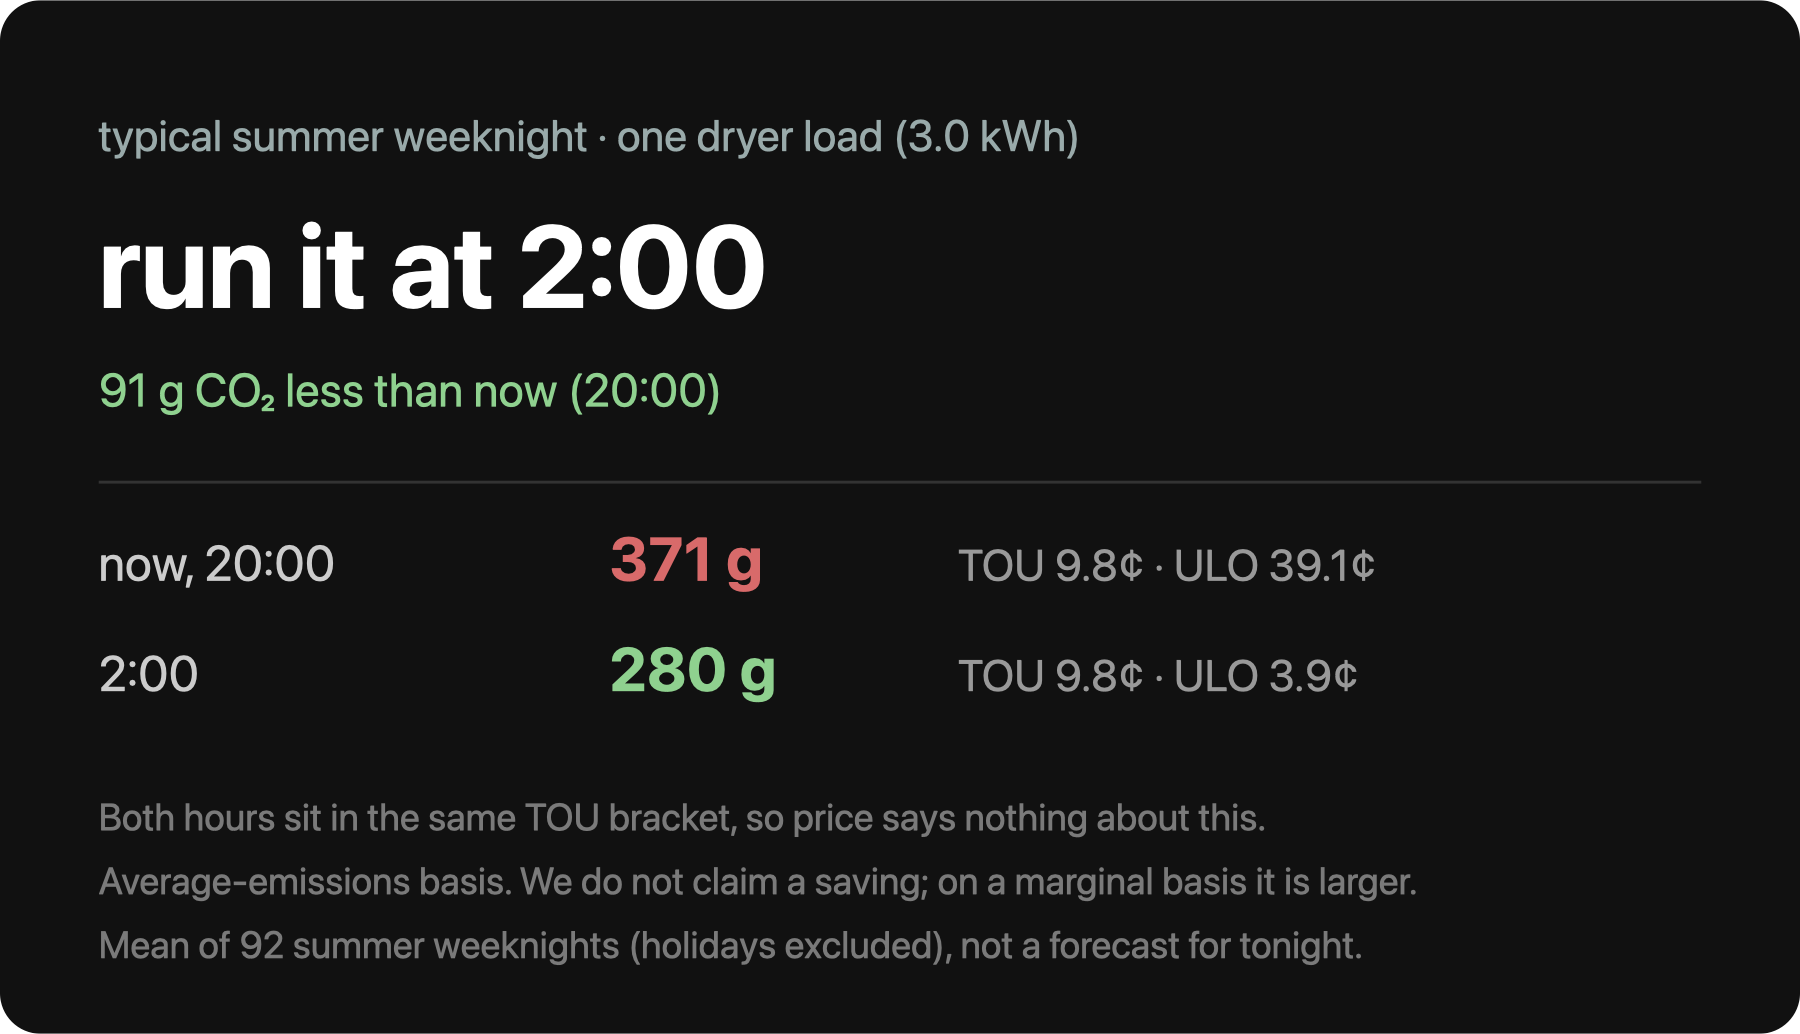
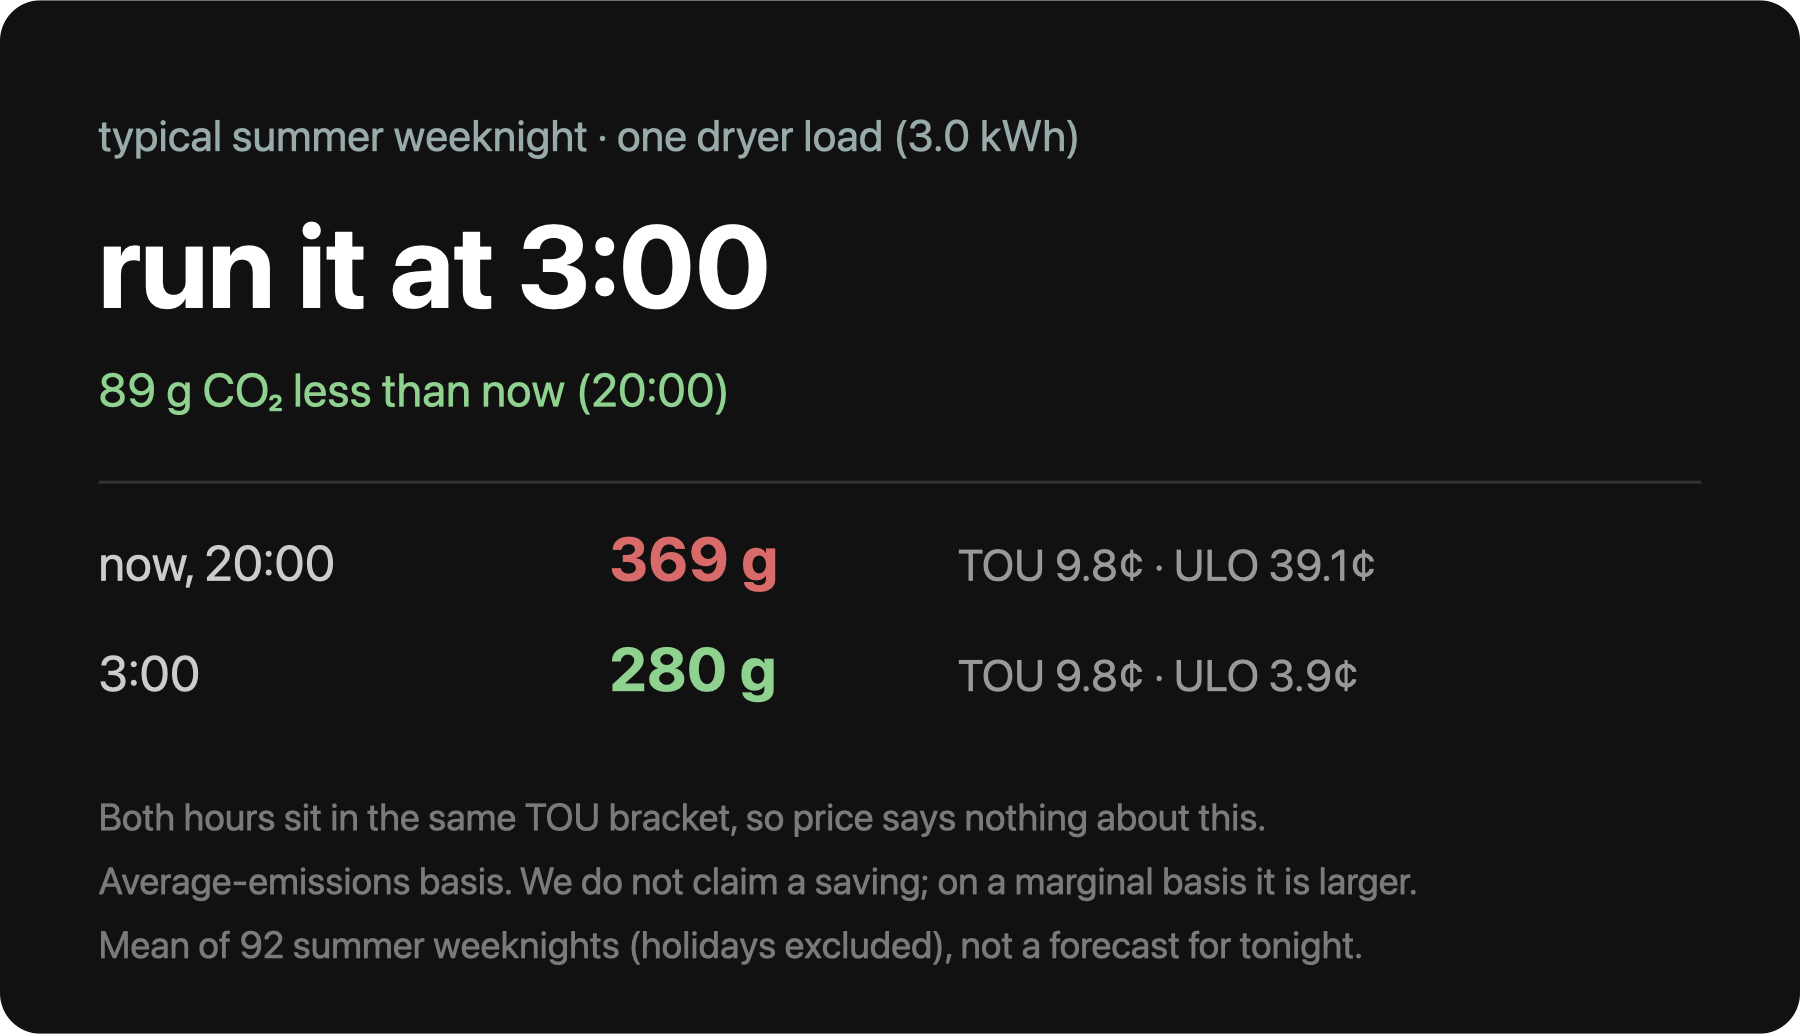
Bind the submission PNGs to their source SVGs
The video and the Devpost gallery use PNGs, not the SVGs. The SVGs are
redrawn on every run and checked; the PNGs come from tools/svg2png.py,
which a human runs by hand. Nobody ran it after the clock correction, so a
three-day-old chart.png shipped inside the video: the picture said 20:00
and 2:00 while the table and the narration said 21:00 and 3:00. All 32
checks were green.

svg2png.py now records the source SVG's hash in figures/.png-from.json and
a check compares it against the current SVG. Binding by mtime does not
work here — the check suite redraws the SVGs as it runs, which would make
the PNGs perpetually "stale".

Also corrected a claim the clock fix had falsified: "run it after 7 p.m."
does not point at the worst hour of the off-peak window. 19:00 is fourth
of twelve. The window opens at its dirtiest end, and the four dirtiest
hours are the first four. A check recomputes that ranking from the data.

33 checks, 46 planted defects.

Claude-Session: https://claude.ai/code/session_01YSf92kXmB57XPY65Y9KqnS

diff --git a/src/check_demo.py b/src/check_demo.py
@@ -52,6 +52,7 @@ NAMES = [
     "시계 변환 기지답 시험이 통과한다",
     "IESO 시각을 현지 시각으로 바꾸지 않고 쓰는 곳이 없다",
     "문서가 말하는 '가장 더러운 앞 N시간'이 실제 순위와 맞는다",
+    "영상·제출에 쓰는 PNG 가 SVG 보다 낡지 않았다",
 ]
 result = {n: (False, "실행되지 않음") for n in NAMES}
 assert len(NAMES) == len(set(NAMES)), "검사 이름이 중복된다"
@@ -605,6 +606,44 @@ if os.path.exists(DATA):
                 _rank_bad.append(
                     f"{_f}: 가장 더러운 {_n1}시각 {sorted(_by_gas[:_n1])} ≠ 앞 {_n1}시간 {_opens[:_n1]}")
     ok(NAME("문서가 말하는 '가장 더러운 앞 N시간'이 실제 순위와 맞는다"), not _rank_bad, "; ".join(_rank_bad[:2]))
+
+    # **영상이 쓰는 것은 SVG 가 아니라 PNG 다.** SVG 는 매 실행 다시 그려지고 검사도 받는데,
+    # PNG 는 `tools/svg2png.py` 를 사람이 손으로 돌려야 생긴다. 시계 정렬을 고친 뒤 아무도
+    # 안 돌려서, **사흘 묵은 chart.png 가 영상에 그대로 실렸다** — 그림은 20:00·2:00 을,
+    # 표와 낭독은 21:00·3:00 을 말하고 있었다. 검사 32개가 전부 초록인 채로.
+    #
+    # **시각이 아니라 내용으로 묶는다.** mtime 으로 쳤더니 이 검사 자신이 SVG 를 다시 그려서
+    # PNG 가 늘 '낡은 것'이 됐다. svg2png.py 가 출처 SVG 의 해시를 .png-from.json 에 적고,
+    # 여기서 지금 SVG 의 해시와 대조한다.
+    _stamp_p = os.path.join(FIG, ".png-from.json")
+    _png_bad = []
+    _stamp = {}
+    if not os.path.exists(_stamp_p):
+        _png_bad.append(".png-from.json 이 없다 — python3 tools/svg2png.py figures/*.svg 를 돌려라")
+    else:
+        try:
+            import json as _json
+            _stamp = _json.load(open(_stamp_p, encoding="utf-8"))
+        except Exception as _e:
+            _png_bad.append(f".png-from.json 을 못 읽었다: {_e}")
+    import hashlib as _hl
+    def _sha16(_p):
+        return _hl.sha256(open(_p, "rb").read()).hexdigest()[:16]
+    for _png, _src in (("card.png", "card.svg"), ("chart.png", "chart.svg"),
+                       ("thumbnail.png", "card.png")):
+        _pp, _sp = os.path.join(FIG, _png), os.path.join(FIG, _src)
+        if not os.path.exists(_pp):
+            _png_bad.append(f"{_png} 이 없다"); continue
+        if not os.path.exists(_sp):
+            _png_bad.append(f"{_src} 가 없다"); continue
+        _rec = _stamp.get(_png)
+        if not _rec:
+            _png_bad.append(f"{_png} 의 출처 기록이 없다"); continue
+        if _rec.get("from") != _src:
+            _png_bad.append(f"{_png} 의 출처가 {_rec.get('from')} 로 적혀 있다 (기대 {_src})"); continue
+        if _rec.get("sha") != _sha16(_sp):
+            _png_bad.append(f"{_png} 이 지금 {_src} 에서 나온 것이 아니다 — python3 tools/svg2png.py 를 돌려라")
+    ok(NAME("영상·제출에 쓰는 PNG 가 SVG 보다 낡지 않았다"), not _png_bad, "; ".join(_png_bad[:3]))
 
     gn = one(r"(\d+):00\s+\d+ nights\s+([\d.]+) %\s*<- what we recommend", out)
     rn = one(r"\*\*([\d.]+) % of nights\*\*", readme)

diff --git a/tools/svg2png.py b/tools/svg2png.py
@@ -14,7 +14,7 @@ Devpost 이미지 갤러리는 JPG·PNG·GIF 만 받는다 (SVG 불가, 최대 5
 
 사용:  python3 tools/svg2png.py figures/*.svg
 """
-import glob, io, os, re, subprocess, sys, tempfile
+import glob, hashlib, io, json, os, re, subprocess, sys, tempfile
 
 def convert(svg_path, out_dir, render=1800):
     svg = io.open(svg_path, encoding="utf-8").read()
@@ -75,17 +75,49 @@ def make_thumb(png_path, out_path, ratio=3/2):
     return canvas.size
 
 
+# PNG 가 어느 SVG 에서 나왔는지 **내용으로** 남긴다.
+# 시각(mtime)으로 묶으면 SVG 를 다시 그리는 것만으로 PNG 가 '낡은 것'이 된다 —
+# 실제로 그렇게 만들었다가 검사가 영원히 빨개졌다. 해시는 그런 일이 없다.
+STAMP = "figures/.png-from.json"
+
+
+def _sha(path):
+    return hashlib.sha256(io.open(path, "rb").read()).hexdigest()[:16]
+
+
+def stamp(root, pairs):
+    """pairs: [(png 이름, 출처 파일 경로)]"""
+    f = os.path.join(root, STAMP)
+    cur = {}
+    if os.path.exists(f):
+        try:
+            cur = json.load(io.open(f, encoding="utf-8"))
+        except Exception:
+            cur = {}
+    for png, src in pairs:
+        cur[os.path.basename(png)] = {"from": os.path.basename(src), "sha": _sha(src)}
+    io.open(f, "w", encoding="utf-8").write(json.dumps(cur, ensure_ascii=False, indent=1,
+                                                      sort_keys=True) + "\n")
+
+
 if __name__ == "__main__":
     if sys.argv[1:2] == ["--thumb"]:
         src, dst = sys.argv[2], sys.argv[3]
         sz = make_thumb(src, dst)
+        stamp(os.path.dirname(os.path.dirname(os.path.abspath(dst))), [(dst, src)])
         print(f"  썸네일 {os.path.basename(dst)} {sz[0]}x{sz[1]} 비율 {sz[0]/sz[1]:.2f} "
               f"{os.path.getsize(dst)/1024:.0f} KB")
         raise SystemExit(0)
     args = sys.argv[1:]
     if not args:
         raise SystemExit("사용: python3 tools/svg2png.py <svg...>")
+    done = []
     for svg in args:
         dst, info = convert(svg, os.path.dirname(os.path.abspath(svg)))
         kb = f"{os.path.getsize(dst)/1024:.0f} KB" if dst else ""
         print(f"  {os.path.basename(svg):<12} -> {os.path.basename(dst) if dst else '실패':<12} {info} {kb}")
+        if dst:
+            done.append((dst, svg))
+    if done:
+        stamp(os.path.dirname(os.path.dirname(os.path.abspath(args[0]))), done)
+        print(f"  출처 해시를 {STAMP} 에 적었다")

diff --git a/src/sabotage.py b/src/sabotage.py
@@ -183,6 +183,9 @@ SABS = [
      "The four dirtiest hours of those twelve are the first four",
      "The six dirtiest hours of those twelve are the first six",
      "가장 더러운 앞 N시간"),
+    ("PNG 출처 해시를 옛 것으로 되돌린다", "figures/.png-from.json",
+     r"re:\"sha\": \"[0-9a-f]{16}\"", '"sha": "deadbeefdeadbeef"',
+     "PNG 가 SVG 보다 낡지 않았다"),
 ]
 
 def check():

diff --git a/submission/CHECKLIST.md b/submission/CHECKLIST.md
@@ -16,8 +16,10 @@ python3 src/determinism.py data/fuel2026.xml    # 시드 5종에서 동일
 
 - [ ] 위 셋 전부 통과 (사보타주는 수 분 걸린다. **도는 동안 저장소를 건드리지 마라** —
       복원이 네 편집을 되돌린다. 도구가 그런 일이 있었으면 경고를 찍는다)
-- [ ] `python3 src/card.py data/fuel2026.xml 20` — **제출용 카드는 20시(차이 91 g)** 여야 한다
+- [ ] `python3 src/card.py data/fuel2026.xml 20` — **제출용 카드는 20시(차이 89 g)** 여야 한다
 - [ ] `python3 tools/svg2png.py figures/card.svg figures/chart.svg` — PNG 재생성
+      (**빼먹으면 검사가 잡는다** — PNG 는 출처 SVG 의 해시로 묶여 있다. 한 번 빼먹어서
+      사흘 묵은 차트가 영상에 실린 적이 있다)
 - [ ] `python3 tools/svg2png.py --thumb figures/card.png figures/thumbnail.png` — 3:2 썸네일
 - [ ] **그림 넷을 눈으로 열어 본다.** 변환기가 한 번 차트 오른쪽을 잘라먹은 적 있다(49절)
 

diff --git a/README.md b/README.md
@@ -215,7 +215,7 @@ circular-rotation null, a 48× move, so we lean on the mechanism rather than the
 time**, so every summer observation was being filed one hour early — the single largest
 correction in this project, and the one that moved the recommended hour from 2 a.m. to 3 a.m.
 
-32 checks run on the path the demo walks, at a denominator that cannot shrink. 45 defects are
+33 checks run on the path the demo walks, at a denominator that cannot shrink. 46 defects are
 planted deliberately and all are caught, and every check is targeted by at least one of them.
 Every number in this file, in both figures, and in the submission documents is bound by regex to
 a line of script output — parsed from what the script printed, never recomputed by the checker.
